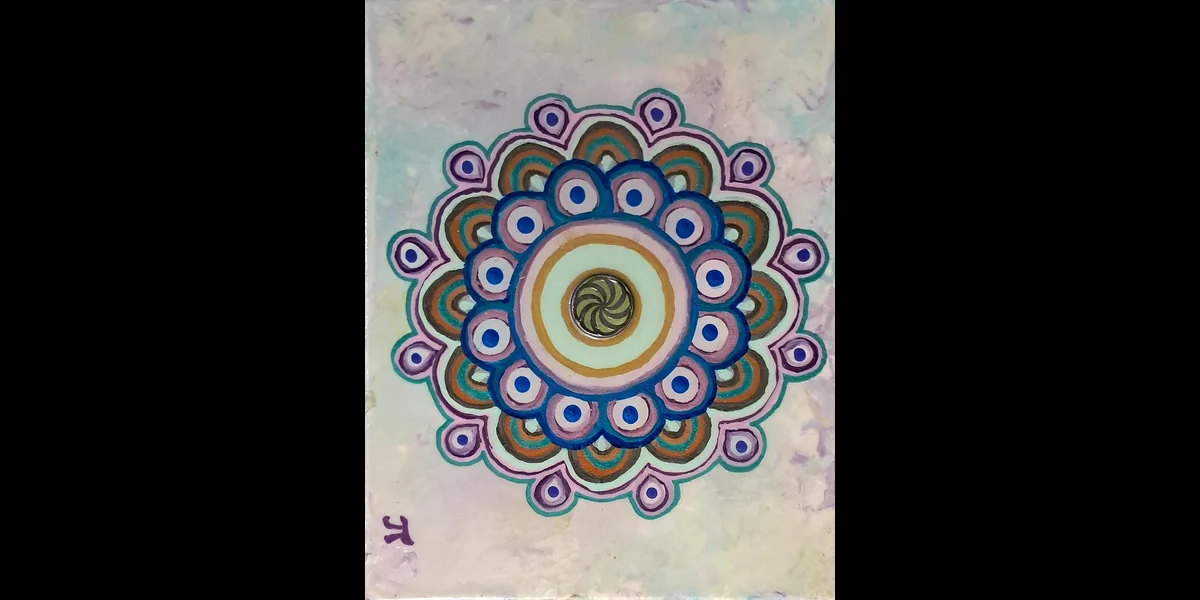
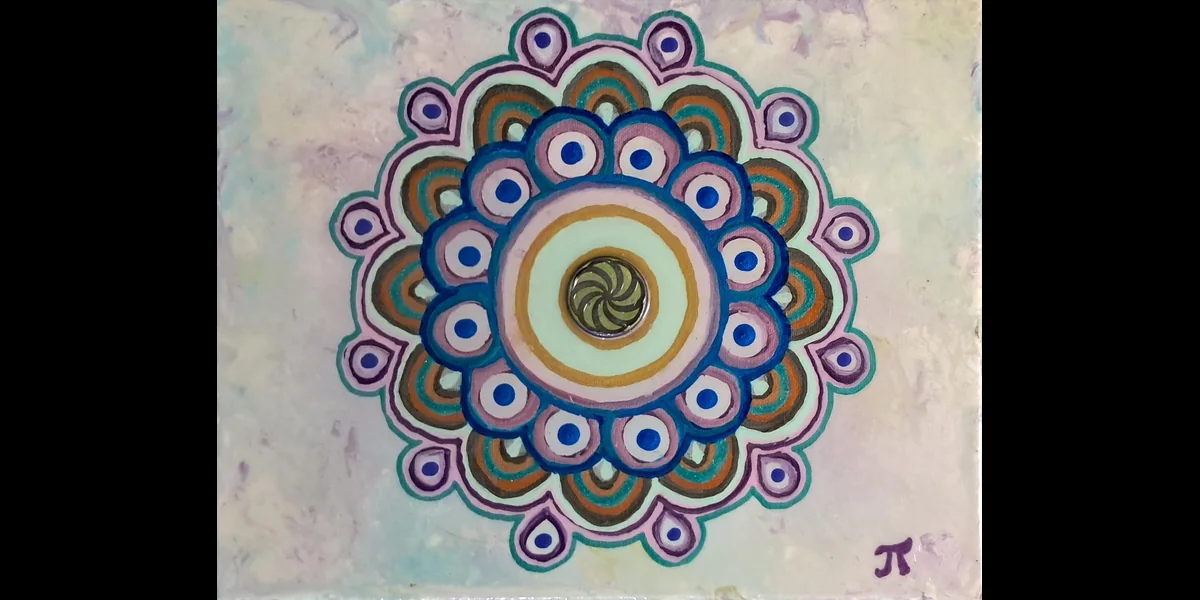
Cumulus: rotate front image to correct orientation (landscape, signature lower right)
Claude-Session: https://claude.ai/code/session_011Lp3ovuF1pRjjp9rywgHop

diff --git a/art/cumulus/index.html b/art/cumulus/index.html
@@ -67,12 +67,12 @@
       "artworkSurface": "Stretched canvas",
       "width": {
         "@type": "QuantitativeValue",
-        "value": 11.0,
+        "value": 14.0,
         "unitCode": "INH"
       },
       "height": {
         "@type": "QuantitativeValue",
-        "value": 14.0,
+        "value": 11.0,
         "unitCode": "INH"
       },
       "offers": {
@@ -696,14 +696,14 @@
 
             <div class="viewer">
                 <figure>
-                    <img id="hero" src="/images/cumulus-mandala-canvas-front-1600.jpg" width="1088" height="1388"
+                    <img id="hero" src="/images/cumulus-mandala-canvas-front-1600.jpg" width="1388" height="1088"
                          alt="Cumulus — a hand-painted mandala in pastel blue, lilac and copper on canvas, with a raised spiral center">
                     <figcaption id="hero-caption">The painting, straight on.</figcaption>
                 </figure>
                 <div class="thumbs" role="group" aria-label="Views of Cumulus">
                     <button type="button" aria-current="true" data-src="/images/cumulus-mandala-canvas-front-1600.jpg"
-                            data-w="1088" data-h="1388" data-caption="The painting, straight on.">
-                        <img src="/images/cumulus-mandala-canvas-front-800.jpg" width="627" height="800" alt="Front" loading="lazy">
+                            data-w="1388" data-h="1088" data-caption="The painting, straight on.">
+                        <img src="/images/cumulus-mandala-canvas-front-800.jpg" width="800" height="627" alt="Front" loading="lazy">
                     </button><button type="button" data-src="/images/cumulus-mandala-canvas-angle-1600.jpg"
                             data-w="1190" data-h="1190" data-caption="From the corner &mdash; the center sits raised above the surface.">
                         <img src="/images/cumulus-mandala-canvas-angle-800.jpg" width="800" height="800" alt="Corner view" loading="lazy">

diff --git a/gallery.html b/gallery.html
@@ -608,7 +608,7 @@
                 <a class="piece-images is-link" href="/art/cumulus/">
                     <picture>
                         <source srcset="/images/cumulus-mandala-canvas-front-800.webp" type="image/webp">
-                        <img src="/images/cumulus-mandala-canvas-front-800.jpg" width="627" height="800" loading="lazy" alt="Cumulus &mdash; acrylic on canvas">
+                        <img src="/images/cumulus-mandala-canvas-front-800.jpg" width="800" height="627" loading="lazy" alt="Cumulus &mdash; acrylic on canvas">
                     </picture>
                 </a>
                 <div class="piece-info">
